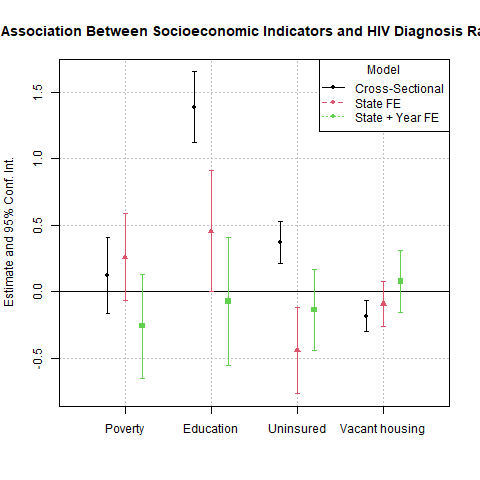
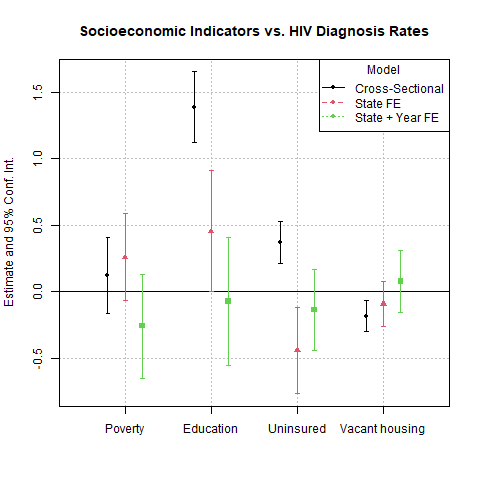
updated code and images

Changed region(s): [[0.0, 0.0312, 1.0, 0.0938]]

diff --git a/Table-1.html b/Table-1.html
@@ -1,0 +1,96 @@
+<table style="border-collapse:collapse; border:none;">
+<caption style="text-align: center;"><b>Table 1. Association between socioeconomic 
+  indicators and HIV diagnosis rates</b></caption>
+<tr>
+<th style="padding: 15px 10px border-bottom:1px solid black; text-align:left; ">&nbsp;</th>
+<th colspan="3" style="padding: 15px 10px border-bottom:1px solid black;">Model 1: Cross Sectional</th>
+<th colspan="3" style="padding: 15px 10px border-bottom:1px solid black;">Model 2: State Fixed Effects</th>
+<th colspan="3" style="padding: 15px 10px border-bottom:1px solid black;">Model 3: State & Year Fixed Effects</th>
+</tr>
+<tr>
+<td style=" text-align:center; border-bottom:1px solid; font-style:italic; font-weight:normal; border-bottom:1px solid black; text-align:left; ">Predictors</td>
+<td style=" text-align:center; border-bottom:1px solid; font-style:italic; font-weight:normal; border-bottom:1px solid black; ">Estimates</td>
+<td style=" text-align:center; border-bottom:1px solid; font-style:italic; font-weight:normal; border-bottom:1px solid black; ">CI</td>
+<td style=" text-align:center; border-bottom:1px solid; font-style:italic; font-weight:normal; border-bottom:1px solid black; ">p</td>
+<td style=" text-align:center; border-bottom:1px solid; font-style:italic; font-weight:normal; border-bottom:1px solid black; ">Estimates</td>
+<td style=" text-align:center; border-bottom:1px solid; font-style:italic; font-weight:normal; border-bottom:1px solid black; ">CI</td>
+<td style=" text-align:center; border-bottom:1px solid; font-style:italic; font-weight:normal; border-bottom:1px solid black; col7">p</td>
+<td style=" text-align:center; border-bottom:1px solid; font-style:italic; font-weight:normal; border-bottom:1px solid black; col8">Estimates</td>
+<td style=" text-align:center; border-bottom:1px solid; font-style:italic; font-weight:normal; border-bottom:1px solid black; col9">CI</td>
+<td style=" text-align:center; border-bottom:1px solid; font-style:italic; font-weight:normal; border-bottom:1px solid black; 0">p</td>
+</tr>
+<tr>
+<td style=" padding: 15px 10px; text-align:left; ">Baseline</td>
+<td style=" padding: 15px 10px; text-align:center;  ">&#45;4.99</td>
+<td style=" padding: 15px 10px; text-align:center;  ">&#45;7.07&nbsp;&ndash;&nbsp;-2.91</td>
+<td style=" padding: 15px 10px; text-align:center;  "><strong>&lt;0.001</strong></td>
+<td style=" padding: 15px 10px; text-align:center;  "></td>
+<td style=" padding: 15px 10px; text-align:center;  "></td>
+<td style=" padding: 15px 10px; text-align:center;  col7"></td>
+<td style=" padding: 15px 10px; text-align:center;  col8"></td>
+<td style=" padding: 15px 10px; text-align:center;  col9"></td>
+<td style=" padding: 15px 10px; text-align:center;  0"></td>
+</tr>
+<tr>
+<td style=" padding: 15px 10px; text-align:left; ">Poverty</td>
+<td style=" padding: 15px 10px; text-align:center;  ">0.12</td>
+<td style=" padding: 15px 10px; text-align:center;  ">&#45;0.17&nbsp;&ndash;&nbsp;0.41</td>
+<td style=" padding: 15px 10px; text-align:center;  ">0.407</td>
+<td style=" padding: 15px 10px; text-align:center;  ">0.26</td>
+<td style=" padding: 15px 10px; text-align:center;  ">&#45;0.07&nbsp;&ndash;&nbsp;0.59</td>
+<td style=" padding: 15px 10px; text-align:center;  col7">0.119</td>
+<td style=" padding: 15px 10px; text-align:center;  col8">&#45;0.26</td>
+<td style=" padding: 15px 10px; text-align:center;  col9">&#45;0.65&nbsp;&ndash;&nbsp;0.13</td>
+<td style=" padding: 15px 10px; text-align:center;  0">0.188</td>
+</tr>
+<tr>
+<td style=" padding: 15px 10px; text-align:left; ">Education (without H.S.<br>Diploma)</td>
+<td style=" padding: 15px 10px; text-align:center;  ">1.39</td>
+<td style=" padding: 15px 10px; text-align:center;  ">1.12&nbsp;&ndash;&nbsp;1.66</td>
+<td style=" padding: 15px 10px; text-align:center;  "><strong>&lt;0.001</strong></td>
+<td style=" padding: 15px 10px; text-align:center;  ">0.46</td>
+<td style=" padding: 15px 10px; text-align:center;  ">&#45;0.00&nbsp;&ndash;&nbsp;0.91</td>
+<td style=" padding: 15px 10px; text-align:center;  col7">0.051</td>
+<td style=" padding: 15px 10px; text-align:center;  col8">&#45;0.07</td>
+<td style=" padding: 15px 10px; text-align:center;  col9">&#45;0.55&nbsp;&ndash;&nbsp;0.41</td>
+<td style=" padding: 15px 10px; text-align:center;  0">0.763</td>
+</tr>
+<tr>
+<td style=" padding: 15px 10px; text-align:left; ">Uninsured</td>
+<td style=" padding: 15px 10px; text-align:center;  ">0.37</td>
+<td style=" padding: 15px 10px; text-align:center;  ">0.21&nbsp;&ndash;&nbsp;0.53</td>
+<td style=" padding: 15px 10px; text-align:center;  "><strong>&lt;0.001</strong></td>
+<td style=" padding: 15px 10px; text-align:center;  ">&#45;0.44</td>
+<td style=" padding: 15px 10px; text-align:center;  ">&#45;0.77&nbsp;&ndash;&nbsp;-0.12</td>
+<td style=" padding: 15px 10px; text-align:center;  col7"><strong>0.008</strong></td>
+<td style=" padding: 15px 10px; text-align:center;  col8">&#45;0.14</td>
+<td style=" padding: 15px 10px; text-align:center;  col9">&#45;0.44&nbsp;&ndash;&nbsp;0.17</td>
+<td style=" padding: 15px 10px; text-align:center;  0">0.379</td>
+</tr>
+<tr>
+<td style=" padding: 15px 10px; text-align:left; ">Vacant Housing</td>
+<td style=" padding: 15px 10px; text-align:center;  ">&#45;0.18</td>
+<td style=" padding: 15px 10px; text-align:center;  ">&#45;0.30&nbsp;&ndash;&nbsp;-0.06</td>
+<td style=" padding: 15px 10px; text-align:center;  "><strong>0.003</strong></td>
+<td style=" padding: 15px 10px; text-align:center;  ">&#45;0.09</td>
+<td style=" padding: 15px 10px; text-align:center;  ">&#45;0.26&nbsp;&ndash;&nbsp;0.08</td>
+<td style=" padding: 15px 10px; text-align:center;  col7">0.286</td>
+<td style=" padding: 15px 10px; text-align:center;  col8">0.08</td>
+<td style=" padding: 15px 10px; text-align:center;  col9">&#45;0.15&nbsp;&ndash;&nbsp;0.31</td>
+<td style=" padding: 15px 10px; text-align:center;  0">0.500</td>
+</tr>
+<tr>
+<td style=" padding: 15px 10px; text-align:left; padding-top:0.1cm; padding-bottom:0.1cm; border-top:1px solid;">Observations</td>
+<td style=" padding: 15px 10px; padding-top:0.1cm; padding-bottom:0.1cm; text-align:center; border-top:1px solid;" colspan="3">350</td>
+<td style=" padding: 15px 10px; padding-top:0.1cm; padding-bottom:0.1cm; text-align:center; border-top:1px solid;" colspan="3">350</td>
+<td style=" padding: 15px 10px; padding-top:0.1cm; padding-bottom:0.1cm; text-align:center; border-top:1px solid;" colspan="3">350</td>
+</tr>
+<tr>
+<td style=" padding: 15px 10px; text-align:left; padding-top:0.1cm; padding-bottom:0.1cm;">R<sup>2</sup> / R<sup>2</sup> adjusted</td>
+<td style=" padding: 15px 10px; padding-top:0.1cm; padding-bottom:0.1cm; text-align:center;" colspan="3">0.565 / 0.560</td>
+<td style=" padding: 15px 10px; padding-top:0.1cm; padding-bottom:0.1cm; text-align:center;" colspan="3">0.962 / 0.955</td>
+<td style=" padding: 15px 10px; padding-top:0.1cm; padding-bottom:0.1cm; text-align:center;" colspan="3">0.970 / 0.964</td>
+</tr>
+
+</table>
+

diff --git a/Table-2.html b/Table-2.html
@@ -1,0 +1,66 @@
+<table style="border-collapse:collapse; border:none;">
+<caption style="text-align: center;"><b>Table 2. Sensitivity analysis: 
+  Alternative State Fixed-Effects Specifications</b></caption>
+<tr>
+<th style="padding: 15px 10px border-bottom:1px solid black; text-align:left; ">&nbsp;</th>
+<th colspan="3" style="padding: 15px 10px border-bottom:1px solid black;">Model 2a: Without Poverty</th>
+<th colspan="3" style="padding: 15px 10px border-bottom:1px solid black;">Model 2b: Without Education</th>
+</tr>
+<tr>
+<td style=" text-align:center; border-bottom:1px solid; font-style:italic; font-weight:normal; border-bottom:1px solid black; text-align:left; ">Predictors</td>
+<td style=" text-align:center; border-bottom:1px solid; font-style:italic; font-weight:normal; border-bottom:1px solid black; ">Estimates</td>
+<td style=" text-align:center; border-bottom:1px solid; font-style:italic; font-weight:normal; border-bottom:1px solid black; ">CI</td>
+<td style=" text-align:center; border-bottom:1px solid; font-style:italic; font-weight:normal; border-bottom:1px solid black; ">p</td>
+<td style=" text-align:center; border-bottom:1px solid; font-style:italic; font-weight:normal; border-bottom:1px solid black; ">Estimates</td>
+<td style=" text-align:center; border-bottom:1px solid; font-style:italic; font-weight:normal; border-bottom:1px solid black; ">CI</td>
+<td style=" text-align:center; border-bottom:1px solid; font-style:italic; font-weight:normal; border-bottom:1px solid black; col7">p</td>
+</tr>
+<tr>
+<td style=" padding: 15px 10px; text-align:left; ">Education (without H.S.<br>Diploma)</td>
+<td style=" padding: 15px 10px; text-align:center;  ">0.64</td>
+<td style=" padding: 15px 10px; text-align:center;  ">0.20&nbsp;&ndash;&nbsp;1.08</td>
+<td style=" padding: 15px 10px; text-align:center;  "><strong>0.005</strong></td>
+<td style=" padding: 15px 10px; text-align:center;  "></td>
+<td style=" padding: 15px 10px; text-align:center;  "></td>
+<td style=" padding: 15px 10px; text-align:center;  col7"></td>
+</tr>
+<tr>
+<td style=" padding: 15px 10px; text-align:left; ">Uninsured</td>
+<td style=" padding: 15px 10px; text-align:center;  ">&#45;0.49</td>
+<td style=" padding: 15px 10px; text-align:center;  ">&#45;0.81&nbsp;&ndash;&nbsp;-0.16</td>
+<td style=" padding: 15px 10px; text-align:center;  "><strong>0.004</strong></td>
+<td style=" padding: 15px 10px; text-align:center;  ">&#45;0.36</td>
+<td style=" padding: 15px 10px; text-align:center;  ">&#45;0.67&nbsp;&ndash;&nbsp;-0.05</td>
+<td style=" padding: 15px 10px; text-align:center;  col7"><strong>0.025</strong></td>
+</tr>
+<tr>
+<td style=" padding: 15px 10px; text-align:left; ">Vacant Housing</td>
+<td style=" padding: 15px 10px; text-align:center;  ">&#45;0.13</td>
+<td style=" padding: 15px 10px; text-align:center;  ">&#45;0.31&nbsp;&ndash;&nbsp;0.04</td>
+<td style=" padding: 15px 10px; text-align:center;  ">0.135</td>
+<td style=" padding: 15px 10px; text-align:center;  ">0.04</td>
+<td style=" padding: 15px 10px; text-align:center;  ">&#45;0.10&nbsp;&ndash;&nbsp;0.18</td>
+<td style=" padding: 15px 10px; text-align:center;  col7">0.572</td>
+</tr>
+<tr>
+<td style=" padding: 15px 10px; text-align:left; ">Poverty</td>
+<td style=" padding: 15px 10px; text-align:center;  "></td>
+<td style=" padding: 15px 10px; text-align:center;  "></td>
+<td style=" padding: 15px 10px; text-align:center;  "></td>
+<td style=" padding: 15px 10px; text-align:center;  ">0.44</td>
+<td style=" padding: 15px 10px; text-align:center;  ">0.13&nbsp;&ndash;&nbsp;0.76</td>
+<td style=" padding: 15px 10px; text-align:center;  col7"><strong>0.007</strong></td>
+</tr>
+<tr>
+<td style=" padding: 15px 10px; text-align:left; padding-top:0.1cm; padding-bottom:0.1cm; border-top:1px solid;">Observations</td>
+<td style=" padding: 15px 10px; padding-top:0.1cm; padding-bottom:0.1cm; text-align:center; border-top:1px solid;" colspan="3">350</td>
+<td style=" padding: 15px 10px; padding-top:0.1cm; padding-bottom:0.1cm; text-align:center; border-top:1px solid;" colspan="3">350</td>
+</tr>
+<tr>
+<td style=" padding: 15px 10px; text-align:left; padding-top:0.1cm; padding-bottom:0.1cm;">R<sup>2</sup> / R<sup>2</sup> adjusted</td>
+<td style=" padding: 15px 10px; padding-top:0.1cm; padding-bottom:0.1cm; text-align:center;" colspan="3">0.961 / 0.954</td>
+<td style=" padding: 15px 10px; padding-top:0.1cm; padding-bottom:0.1cm; text-align:center;" colspan="3">0.961 / 0.954</td>
+</tr>
+
+</table>
+
